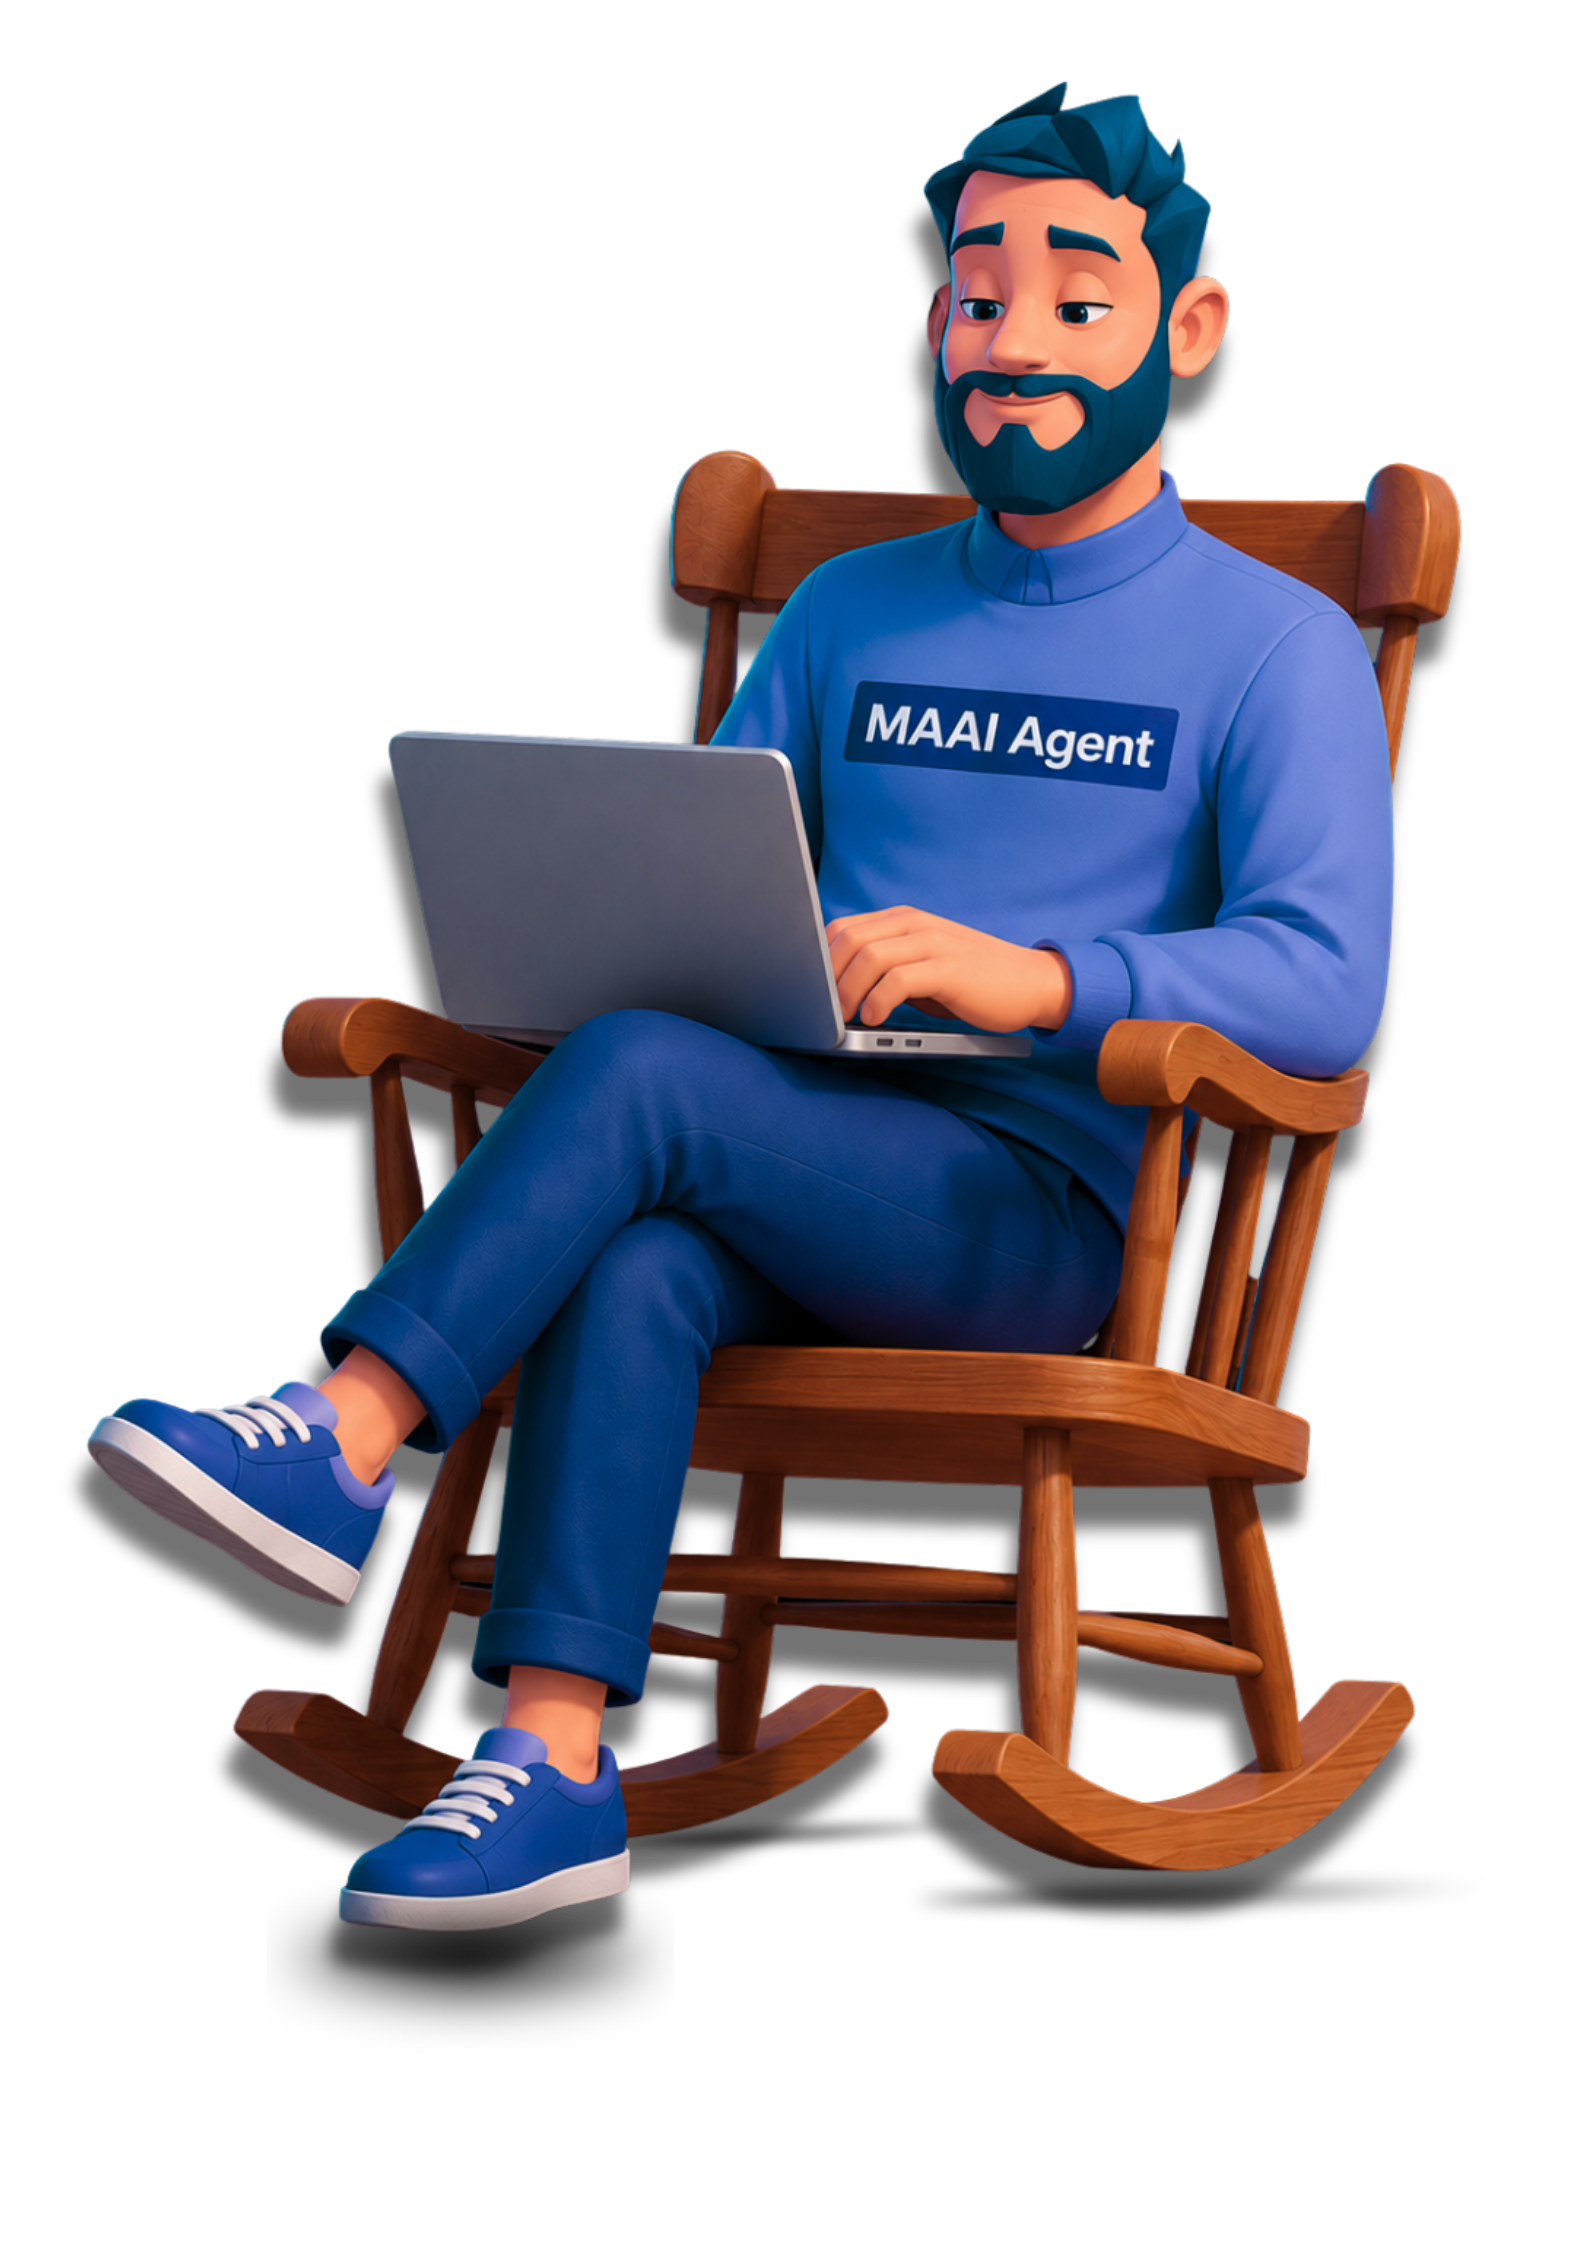
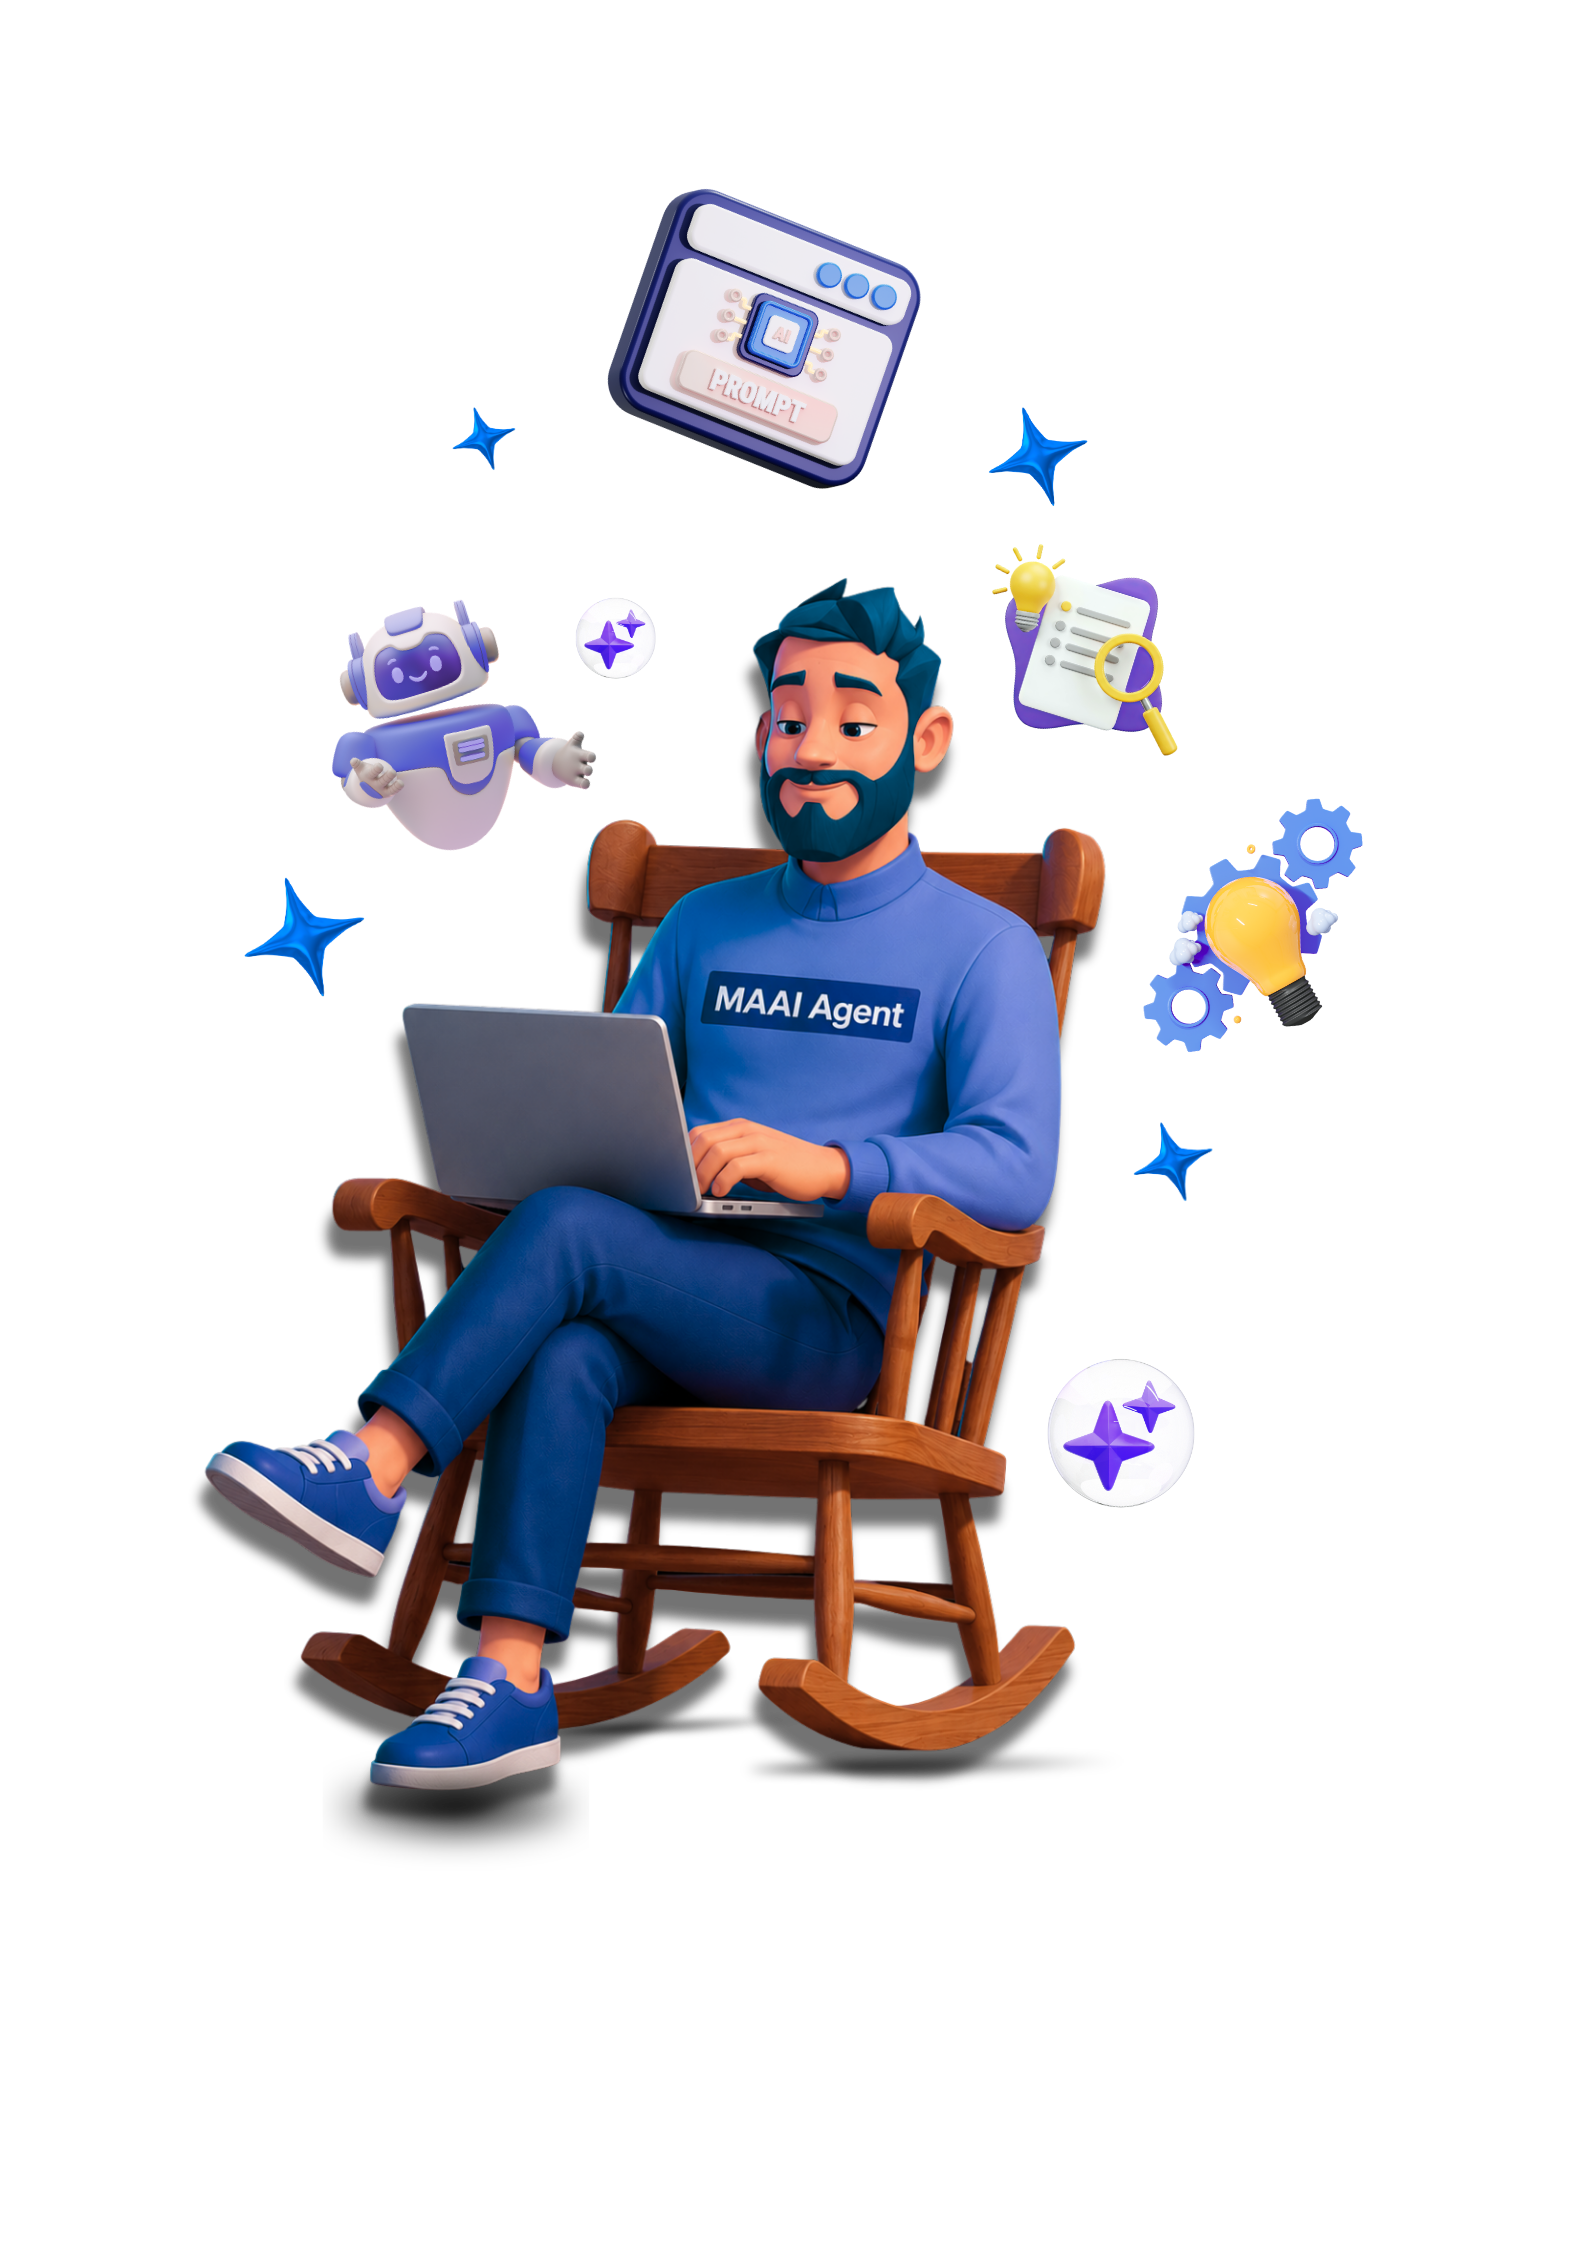
Update landing hero automation artwork

diff --git a/static/index.html b/static/index.html
@@ -301,22 +301,20 @@
   .lp-hero .lp-btn-primary:hover { background: #fff; transform: translateY(-1px); box-shadow: 0 14px 32px rgba(0,0,0,0.3); }
   .lp-hero .lp-btn-ghost { color: #fff; border-color: rgba(255,255,255,0.6); }
   .lp-hero .lp-btn-ghost:hover { background: rgba(255,255,255,0.16); border-color: #fff; }
-  .lp-hero-visual { position: relative; height: min(530px, calc(100svh - 140px)); padding: 18px; display: flex; align-items: center; justify-content: center; overflow: hidden; pointer-events: none; background: rgba(255,255,255,0.10); backdrop-filter: blur(20px) saturate(150%); -webkit-backdrop-filter: blur(20px) saturate(150%); border: 1px solid rgba(255,255,255,0.30); border-radius: 24px; box-shadow: 0 16px 48px rgba(10,14,40,0.30), inset 0 1px 0 rgba(255,255,255,0.45); }
-  .lp-hero-visual::before { content: ''; position: absolute; inset: 0; pointer-events: none; background: linear-gradient(145deg, rgba(255,255,255,0.16), transparent 48%); }
-  .lp-hero-character { position: relative; z-index: 1; width: min(100%, 390px); max-height: 100%; object-fit: contain; display: block; transform: translate(12px, 18px); filter: drop-shadow(0 20px 24px rgba(10,14,40,0.24)); }
+  .lp-hero-visual { position: relative; height: min(530px, calc(100svh - 140px)); display: flex; align-items: center; justify-content: center; pointer-events: none; }
+  .lp-hero-character { position: relative; z-index: 1; width: min(100%, 420px); max-height: 100%; object-fit: contain; display: block; transform: translate(12px, 18px) scale(1.16); filter: drop-shadow(0 20px 24px rgba(10,14,40,0.24)); }
   /* Glassy hero panel — translucent frosted glass over the iridescence */
   .lp-hero .lp-hero-panel { background: rgba(255,255,255,0.10); backdrop-filter: blur(20px) saturate(150%); -webkit-backdrop-filter: blur(20px) saturate(150%); border: 1px solid rgba(255,255,255,0.30); box-shadow: 0 16px 48px rgba(10,14,40,0.30), inset 0 1px 0 rgba(255,255,255,0.45); }
   .lp-hero .lp-hero-panel h4 { color: rgba(255,255,255,0.75); }
   .lp-hero .lp-checkline { color: #fff; border-bottom-color: rgba(255,255,255,0.20); }
   .lp-hero .lp-check { background: rgba(255,255,255,0.22); color: #fff; box-shadow: inset 0 0 0 1px rgba(255,255,255,0.28); }
   body:not(.light) .lp-hero .lp-hero-panel { background: rgba(255,255,255,0.08); border-color: rgba(255,255,255,0.22); }
-  body:not(.light) .lp-hero-visual { background: rgba(255,255,255,0.08); border-color: rgba(255,255,255,0.22); }
 
   @media (max-width: 860px) {
     .lp-hero { padding: clamp(28px, 5vh, 44px) 0; }
     .lp-hero-grid { grid-template-columns: minmax(0, 1.15fr) minmax(220px, 0.85fr); gap: 24px; }
     .lp-hero-visual { height: min(430px, calc(100svh - 150px)); }
-    .lp-hero-character { width: min(100%, 310px); transform: translateX(6px); }
+    .lp-hero-character { width: min(100%, 350px); transform: translateX(6px) scale(1.10); }
     .lp-grid-3, .lp-grid-4, .lp-grid-2, .lp-footer-grid { grid-template-columns: 1fr; }
     .lp-nav-links { display: none; }
     .lp-section { padding: 56px 0; }
@@ -328,8 +326,8 @@
     .lp-hero .lp-h1 { font-size: clamp(27px, 8vw, 32px); margin-bottom: 12px; }
     .lp-hero .lp-lead { font-size: 15px; line-height: 1.45; }
     .lp-hero .lp-cta-row { margin-top: 18px; }
-    .lp-hero-visual { width: min(100%, 320px); height: clamp(180px, 30svh, 250px); padding: 12px; justify-self: center; }
-    .lp-hero-character { width: min(64vw, 220px); transform: none; }
+    .lp-hero-visual { height: clamp(200px, 34svh, 280px); }
+    .lp-hero-character { width: min(76vw, 260px); transform: scale(1.08); }
   }
 
   /* Page head (Discover & other feature pages) */